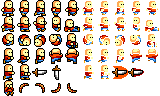
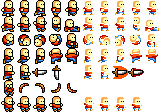
F(l)apping

diff --git a/src/player.js b/src/player.js
@@ -72,6 +72,10 @@ export class Player extends CollisionObject {
         this.knockBackTimer = 0;
 
         this.progress = progress;
+
+        // hahah f(l)apping
+        this.flapping = false;
+        this.jumpReleased = false;
     }
 
 
@@ -245,6 +249,7 @@ export class Player extends CollisionObject {
         const DOUBLE_JUMP_TIME = 8.0;
         const SLIDE_TIME = 20;
         const WALL_JUMP_BONUS = -2.0;
+        const FLAP_SPEED = 0.5;
 
         let jumpButtonState = ev.input.actions["fire1"].state;
 
@@ -280,6 +285,8 @@ export class Player extends CollisionObject {
 
                 this.canAttack = true;
 
+                this.jumpReleased = false;
+
                 // Sound effect
                 ev.audio.playSample(ev.assets.samples["jump"], 0.50);
             }
@@ -291,6 +298,23 @@ export class Player extends CollisionObject {
 
             else if (this.slideTimer > 0)
                 this.slideTimer = 0.0;
+
+            this.jumpReleased = true;
+        }
+    
+        // Flapping
+        this.flapping = 
+            this.jumpReleased &&
+            this.doubleJump &&
+            this.attackTimer <= 0 &&
+            this.doubleJump &&
+            (jumpButtonState & State.DownOrPressed) == 1 &&
+            this.jumpTimer <= 0;
+
+        if (this.flapping) {
+
+            this.target.y = FLAP_SPEED;
+            this.speed.y = this.target.y;
         }
     }
 
@@ -407,6 +431,7 @@ export class Player extends CollisionObject {
         const JUMP_EPS = 0.5;
         const DOUBLE_JUMP_ANIM_SPEED = 4;
         const SWORD_SPC_SPEED = 4;
+        const FLAP_ANIM_SPEED = 3;
 
         let animSpeed = 0.0;
         let animFrame = 0;
@@ -493,6 +518,14 @@ export class Player extends CollisionObject {
                     ev.audio.playSample(ev.assets.samples["climb"], 0.60);
                 }
             }
+            return;
+        }
+
+        // Flapping
+        if (this.flapping) {
+
+            this.spr.animate(6, 0, 3, FLAP_ANIM_SPEED, ev.step);
+
             return;
         }
 
